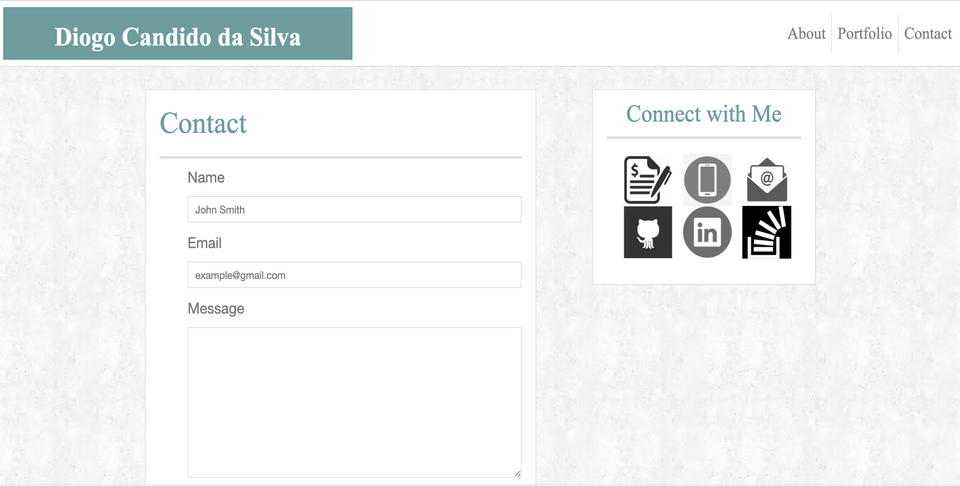
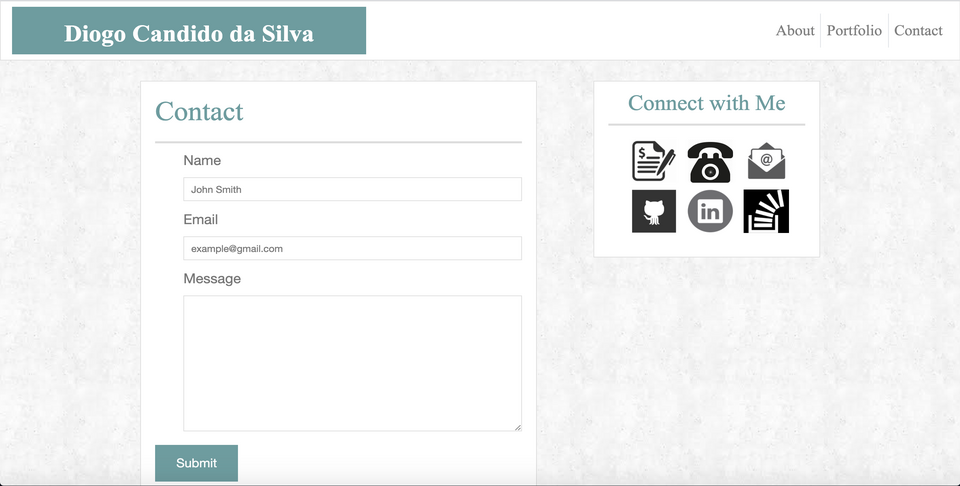
updated portfolio

diff --git a/index.html b/index.html
@@ -45,6 +45,7 @@
         </div>
     
 
+        
       <div class="col-xs-4 col-xs-offset-1 text-center sidebar main-section" id="link-box">
         <h2 class="h2">Connect with Me</h2>
           <a href="./assets/Diogo_Candido .pdf"><img src="./assets/resume-icon.png" class="social" alt="Resume"></a>

diff --git a/README.md b/README.md
@@ -5,11 +5,11 @@ In accordance with the requirement for this project, I created a Responsive Port
 
 Finally, to conclude the task I validated the links in html and inspected them to confirm that they had the correct dimensions. 
 
-<img width="500" alt="about" src="https://user-images.githubusercontent.com/61811579/91779564-da709380-ebaa-11ea-9bcc-3e76c02a6e49.png">
+<img width="500" alt="profile" src="https://user-images.githubusercontent.com/61811579/97041935-27c30e80-1525-11eb-899e-b97c09318a40.png">
 
 <img width="500" alt="portfolio" src="https://user-images.githubusercontent.com/61811579/91217064-ca007a80-e6cb-11ea-85e9-4ff9815aa4cf.png">
 
-<img width="500" alt="contact" src="https://user-images.githubusercontent.com/61811579/91779580-e8beaf80-ebaa-11ea-8399-f9aa623ac2d0.png">
+<img width="500" alt="Contact" src="https://user-images.githubusercontent.com/61811579/97041872-0b26d680-1525-11eb-9ee4-14338ceb066d.png">
 
 Link: https://diogocandidos.github.io/responsive-portfolio/
  
